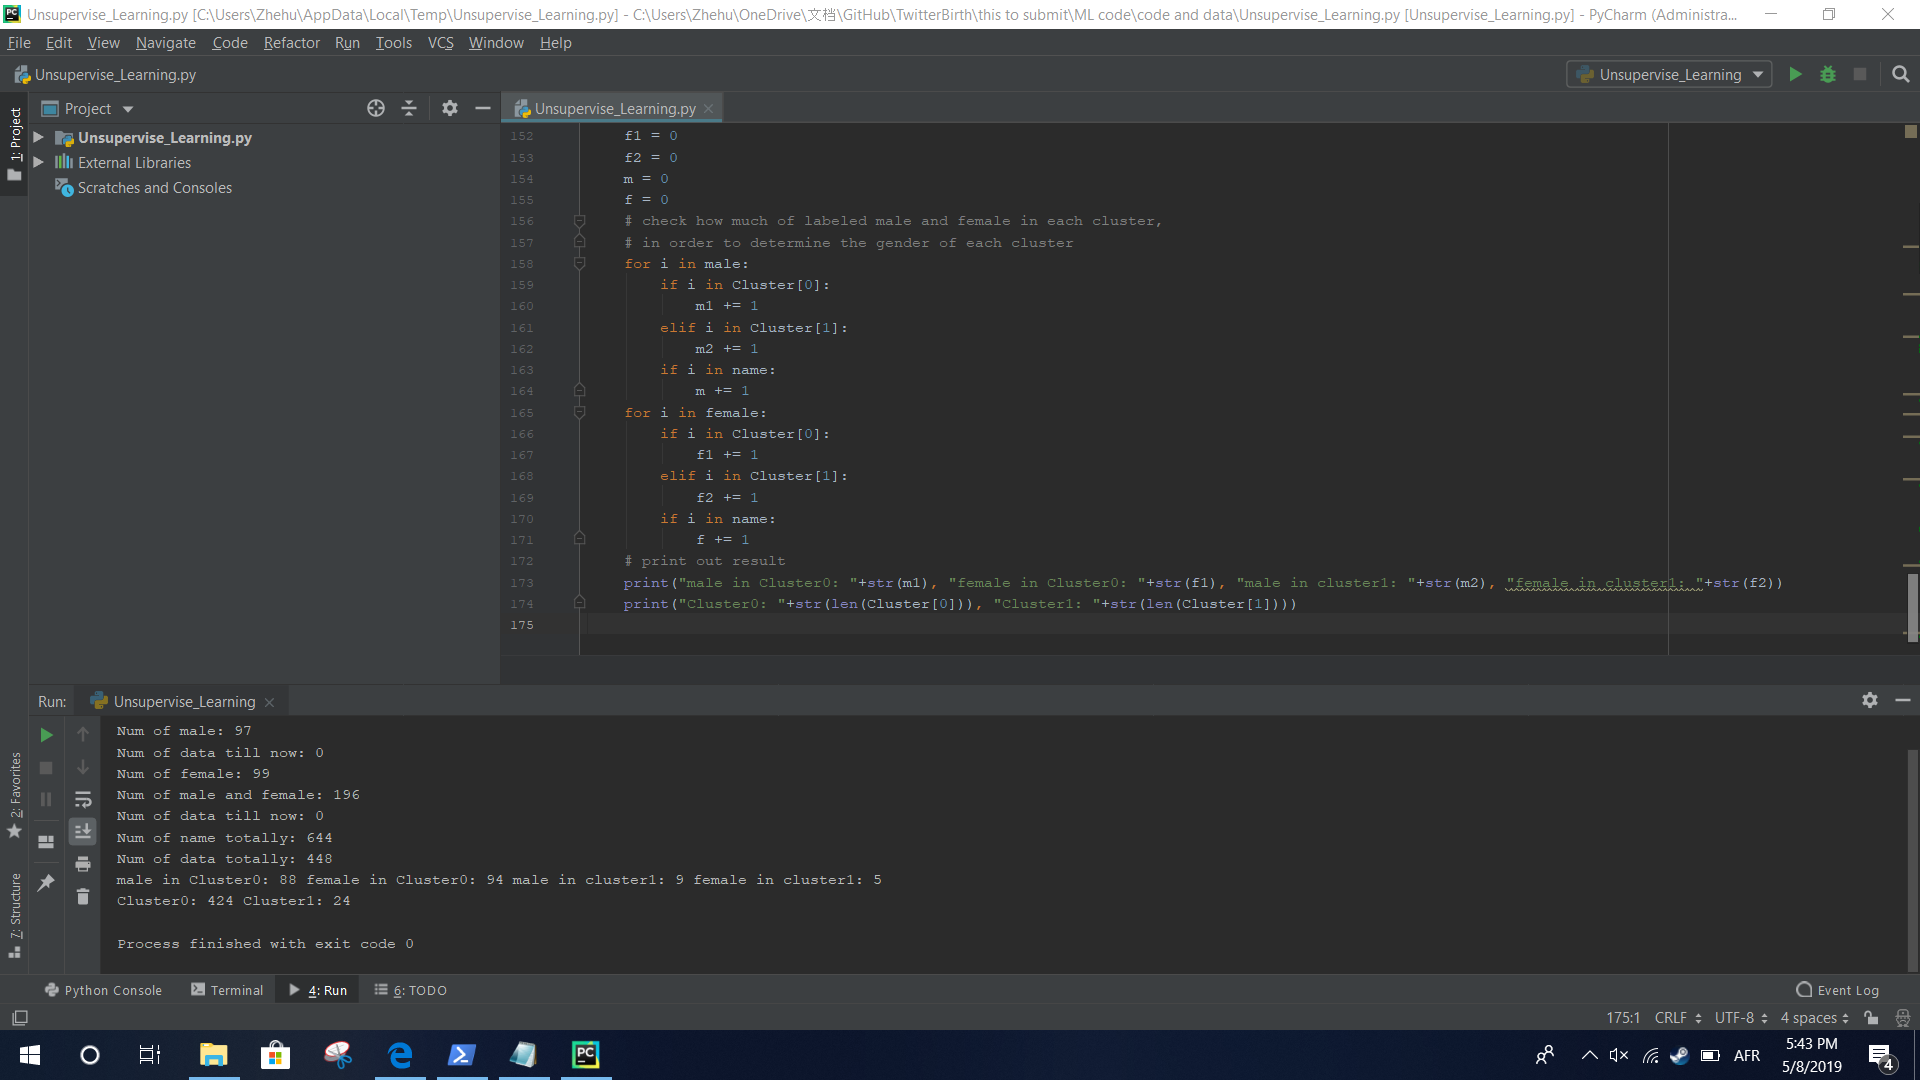
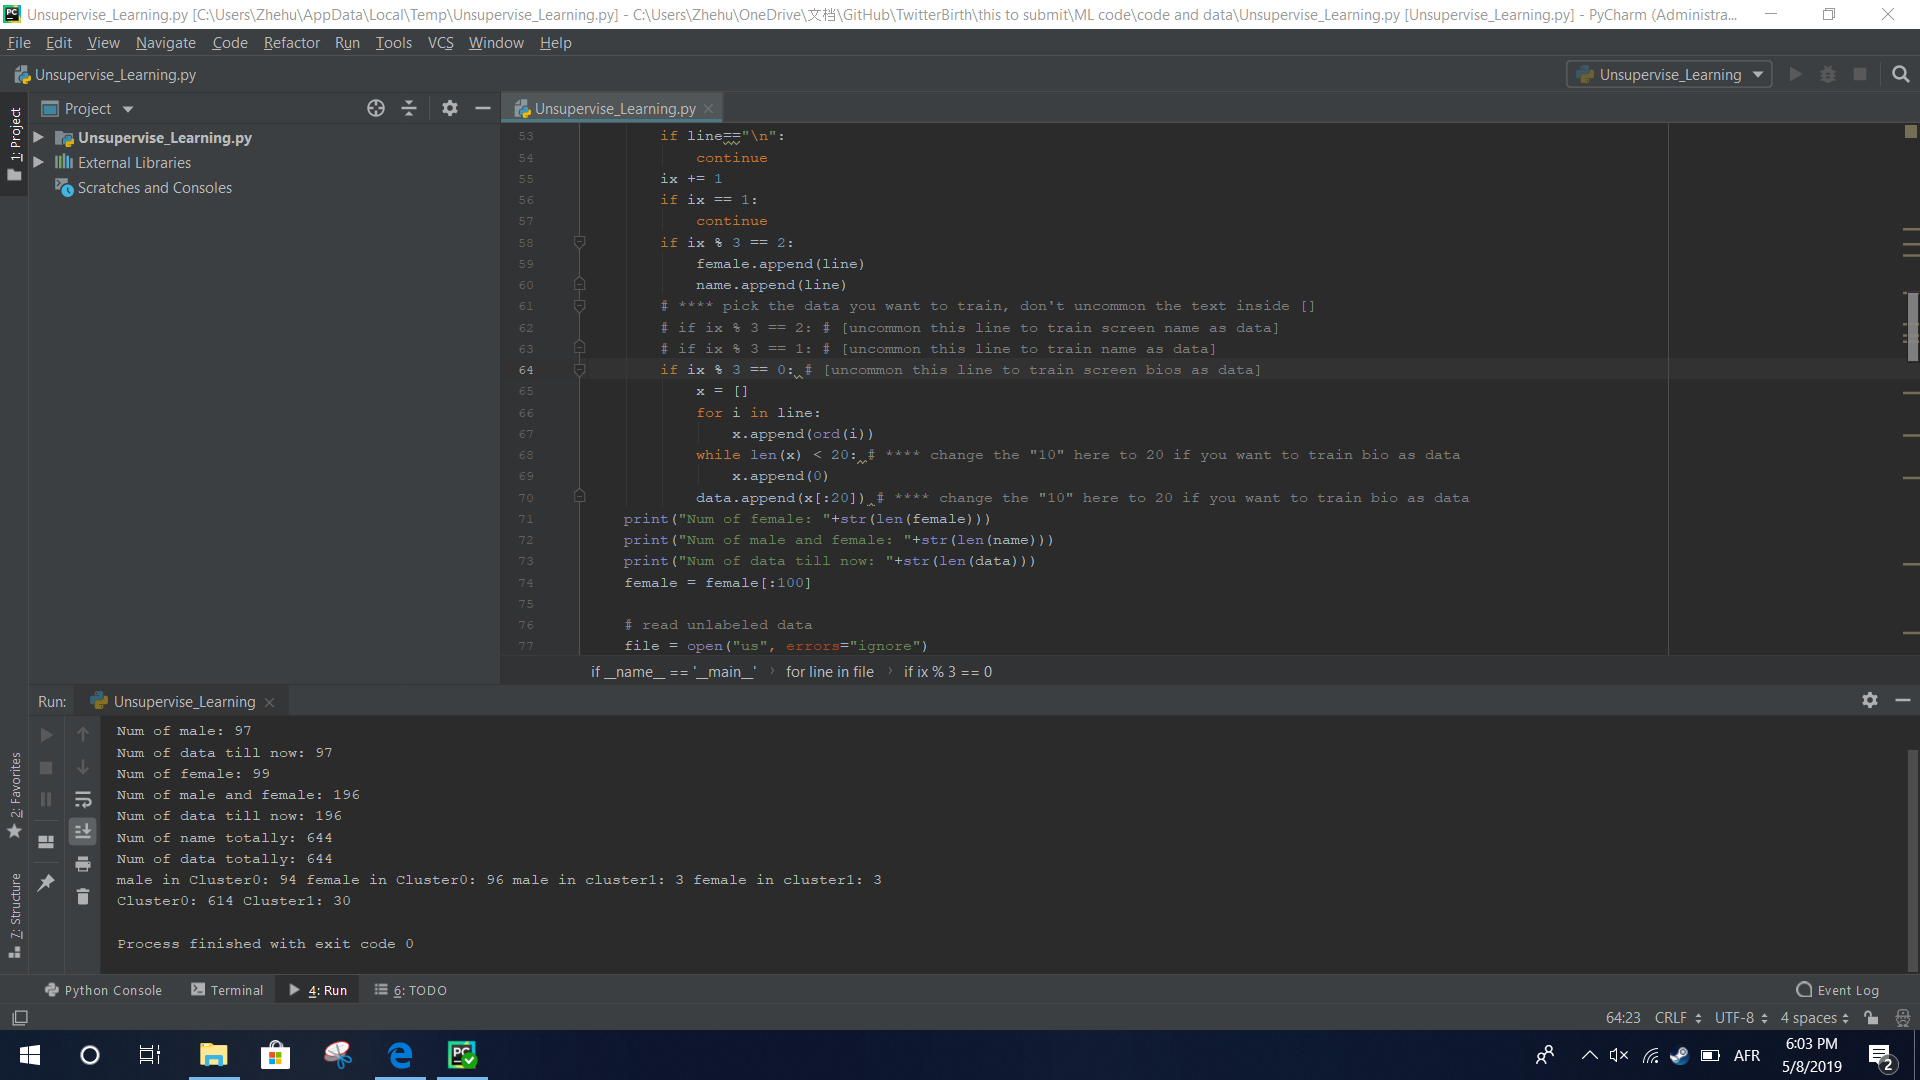
fix

diff --git a/this to submit/ML code/code and data/Unsupervise_Learning.py b/this to submit/ML code/code and data/Unsupervise_Learning.py
@@ -28,17 +28,16 @@ if __name__ == '__main__':
         # **** pick the data you want to train, don't uncommon the text inside []
         # if ix % 3 == 2: # [uncommon this line to train screen name as data]
         # if ix % 3 == 1: # [uncommon this line to train name as data]
-        # if ix % 3 == 3: # [uncommon this line to train screen bios as data]
+        # if ix % 3 == 0: # [uncommon this line to train screen bios as data]
             x = []
             for i in line:
                 # use ascii code to read string
                 x.append(ord(i))
-
             while len(x) < 10: # **** change the "10" here to 20 if you want to train bio as data
                 # fix length for short input, length of bios is 20, length of name and screen name are 10
                 x.append(0)
             # mix training data with unlabeled training data
-            data.append(x[:10])
+            data.append(x[:10]) # **** change the "10" here to 20 if you want to train bio as data
     # print out len(data) collected
     print("Num of male: "+str(len(male)))
     print("Num of male: "+str(len(name)))
@@ -62,13 +61,13 @@ if __name__ == '__main__':
         # **** pick the data you want to train, don't uncommon the text inside []
         # if ix % 3 == 2: # [uncommon this line to train screen name as data]
         # if ix % 3 == 1: # [uncommon this line to train name as data]
-        # if ix % 3 == 3: # [uncommon this line to train screen bios as data]
+        # if ix % 3 == 0: # [uncommon this line to train screen bios as data]
             x = []
             for i in line:
                 x.append(ord(i))
             while len(x) < 10: # **** change the "10" here to 20 if you want to train bio as data
                 x.append(0)
-            data.append(x[:10])
+            data.append(x[:10]) # **** change the "10" here to 20 if you want to train bio as data
     print("Num of female: "+str(len(female)))
     print("Num of male and female: "+str(len(name)))
     print("Num of data till now: "+str(len(data)))
